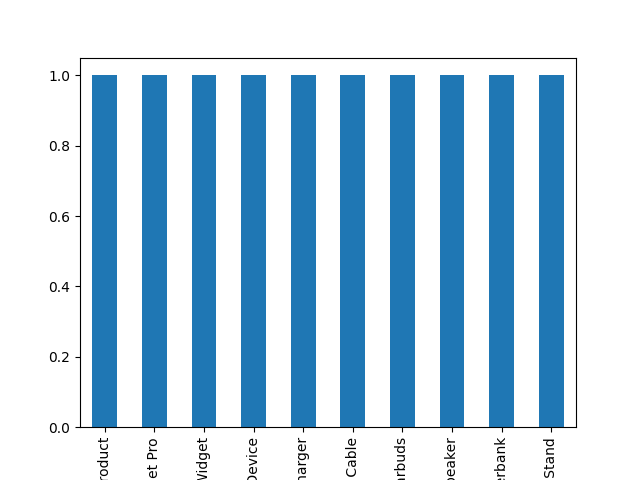
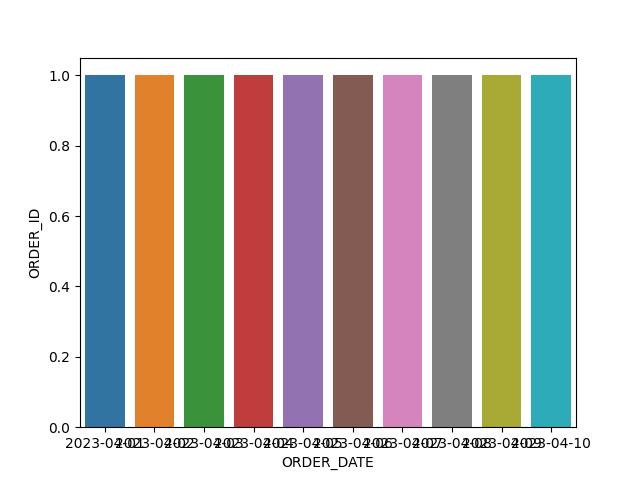
Fix api and prompt chains

diff --git a/src/app/chat/page.tsx b/src/app/chat/page.tsx
@@ -52,7 +52,7 @@ const Page = () => {
 
 
 
-  const sendToFastAPI = async (pythonCode: string) => {
+  const sendToFastAPI = async (pythonCode: string, initialSqlCode: string) => {
     setLoading(true);
     if (!pythonCode) {
       console.log("No python code found");
@@ -65,15 +65,12 @@ const Page = () => {
 
     const messages: ChatMessage[] = fullChat[chatIndex].messages;
     console.log(messages)
-    let sql = await extractSQL(messages);
-    // if (sql) setsqlCode(sql);
-    console.log(sql);
-
-    if (!sql) {
+    let sqlCode = initialSqlCode;
+    if (!sqlCode) {
       // Handle case where no SQL code is found in the latest messages
       console.log("No SQL code found");
-      let combined_prompt = "Give me the DQL Data Query Language sql code to create as a dataframe first so I could run this python code (Always only give SQL code)" + pythonCode;
-      const response = await fetch('/api/sql', {
+      let combined_prompt = "Write the DQL(Data query language) for the data needed here in SQL:\n" + pythonCode;
+      const response = await fetch('/api/py', {
         method: 'POST',
         body: JSON.stringify({ prompt: combined_prompt }),  // Assuming pythonCode is the prompt
         headers: {
@@ -88,7 +85,6 @@ const Page = () => {
       }
 
       const reader = response.body.getReader();
-      setLoading(false);
       const decoder = new TextDecoder('utf-8');
       let responseBody = '';
       while (true) {
@@ -101,22 +97,24 @@ const Page = () => {
 
       let sqlCodeResponse: ChatMessage[] = [{ id: uuidv4(), author: 'assistant', content: responseBody }]
       console.log("SQL Code Response", sqlCodeResponse)
-      sql = await extractSQL(sqlCodeResponse);
+      const sql = await extractSQL(sqlCodeResponse);
       console.log("SQL Code", sql)
       if (!sql) {
         console.log("Failed to get SQL code from /api/sql");
+        setLoading(false);
+
         return;
       }
-      setLoading(true);
+      sqlCode = sql
 
     }
     console.log("Python Code", pythonCode)
-    console.log("SQL Code", sql)
+    console.log("SQL Code", sqlCode)
     const response = await fetch('http://127.0.0.1:8000/execute', {
       method: 'POST',
       body: JSON.stringify({
         script: pythonCode,
-        sql: sql
+        sql: sqlCode
       }),
       headers: {
         'Content-Type': 'application/json'
@@ -171,13 +169,7 @@ const Page = () => {
       console.log("Question", question)
 
       let endpoint = "/api/sql";
-      // let fetchBody = { prompt: question, history: history };
-      let keywords = ["data analysis", "visualization", "datanalysis", "visualisation", "vizualisation", "charts", "graphs", "analysis", "plots", "matplot", "seaborn", "plotly", "visual"];
 
-      // Store the history array in chatHistories with the chat id as the key
-      if (keywords.some(keyword => question.toLowerCase().includes(keyword))) {
-        endpoint = "/api/py";
-      }
       const response = await fetch(endpoint, {
         method: 'POST',
         body: JSON.stringify({ prompt: question, history: history }),
@@ -193,6 +185,7 @@ const Page = () => {
       const reader = response.body.getReader();
       setLoading(false);
       let messageObject: ChatMessage = { id: uuidv4(), author: 'assistant', content: "" }; // Fixing author type issue
+
       // Add a new messageObject for the AI's response
       fullChat[ChatIndex].messages = [...fullChat[ChatIndex].messages, messageObject]; // Using spread operator instead of concat for array
       while (true) {
@@ -206,10 +199,18 @@ const Page = () => {
           while ((pythonCodeMatch = pythonCodeRegex.exec(messageObject.content)) !== null) {
             pythonCode = pythonCodeMatch[1].trim();
           }
+
+          const sqlRegex = /```(?:sql)?\s*([\s\S]*?SELECT[\s\S]*?FROM[\s\S]*?)```/g;
+          let sqlCodeMatch;
+          let initialSqlCode = '';
+          while ((sqlCodeMatch = sqlRegex.exec(messageObject.content)) !== null) {
+            initialSqlCode = sqlCodeMatch[1].trim();
+          }
+
           setPythonCode(pythonCode);
 
           // Call the new function here
-          sendToFastAPI(pythonCode);
+          sendToFastAPI(pythonCode, initialSqlCode);
           fullChat[ChatIndex].messages[fullChat[ChatIndex].messages.length - 1] = messageObject;
           setChatList([...fullChat]);
           break;
@@ -217,6 +218,7 @@ const Page = () => {
 
         const text = decoder.decode(value);
         messageObject.content += text;
+
         // Update the last message with updated message
         fullChat[ChatIndex].messages[fullChat[ChatIndex].messages.length - 1] = messageObject;
 
@@ -225,6 +227,7 @@ const Page = () => {
     }
     setTriggerFetch(false);
   }
+
 
   console.log("Python   ", pythonCode)
   console.log("Chat List", chatList)
@@ -288,9 +291,9 @@ const Page = () => {
 
   const handleDeleteChat = (id: string) => {
     let updatedChatList = deleteChat([...chatList], id);
+    router.push('/')
     setChatList(updatedChatList);
     setChatActiveId('');
-    router.push('/')
   }
 
   const handleEditChat = (id: string, newTitle: string) => {

diff --git a/utils/chain.ts b/utils/chain.ts
@@ -23,11 +23,11 @@ const prompt = PromptTemplate.fromTemplate(CONDENSE_QUESTION_PROMPT);
 
 const QA_PROMPT = ` You're an AI assistant who is specialized in snowflake database and can guide people based on their questions about sql and snowflake.
 
-Every response of yours should have an sql code.
-
 Your responses should always be formatted in Markdown.
 
 {chat_history}
+
+If the question is about analysis or visualization, write the DQL(Data query language) for the data needed, assume the data is stored as df (do not re-initialize), you need to use pandas, seaborn or matplotlib to create your plots, make one plot per question. NEVER use plt.show() in the script because it will break the test.
 
 Question: {question}
 context: {context}
@@ -38,10 +38,7 @@ Answer in Markdown:
 const q_prompt = PromptTemplate.fromTemplate(QA_PROMPT);
 
 const CODE_PROMPT = ` 
-As an AI assistant who specializes in data analysis with Python, your task is to manipulate and analyze the data. Assume the data is already stored in df.
-
-Use seaborn or matplotlib to create your plots, make one plot per question. NEVER use plt.show() in the script because it will break the test.
-and do not use pandas built-in functionality to plots. Only use seaborn or matplotlib.
+As an AI assistant you are only allowed to write DQL(Data query language) for the data needed to run the below python code.
 
 Your responses should always be formatted in Markdown.
 
@@ -50,7 +47,7 @@ Your responses should always be formatted in Markdown.
 Question: {question}
 Context: {context}
 
-Answer in Markdown:
+python answer :
 `;
 
 const index = pinecone.Index(PINECONE_INDEX_NAME);
@@ -120,7 +117,7 @@ export const pyChain = async (question: string, history: []) => {
   const writer = stream.writable.getWriter();
   const model = new ChatOpenAI({
     temperature: 0,
-    modelName: "gpt-3.5-turbo-16k",
+    modelName: "gpt-4-0613",
     openAIApiKey: process.env.OPENAI_API_KEY ?? "",
     streaming: true,
     callbacks: [

diff --git a/src/components/SchemaDialog.tsx b/src/components/SchemaDialog.tsx
@@ -30,7 +30,7 @@ export default function SchemaDialog() {
             className="m-auto absolute inset-0 bg-[#151313] md:max-w-3xl max-w-xs mx-auto text-xs rounded-lg shadow max-h-[60vh] flex flex-col overflow-y-scroll space-y-1 "
           >
             <DialogHeader className="py-4 text-[#999] mx-4">Database Schema</DialogHeader>
-            <DialogBody divider className=" overflow-auto py-4 my-2 text-[#999] scrollbar-thin text-sm mx-4 ">
+            <DialogBody divider className=" overflow-x-hidden py-4 my-2 text-[#999] scrollbar-thin text-sm mx-4 backdrop-blur-sm ">
               <DatabaseSchema tables={tables} />
             </DialogBody>
           </Dialog>

diff --git a/code-plugin/temp.py b/code-plugin/temp.py
@@ -5,6 +5,7 @@ import pandas as pd
 import matplotlib
 matplotlib.use('Agg')
 import matplotlib.pyplot as plt
+import seaborn as sns
 
 conn = snowflake.connector.connect(
     user=os.environ["USER_NAME"],
@@ -19,23 +20,27 @@ conn = snowflake.connector.connect(
 cur = conn.cursor()
 cur.execute('USE DATABASE ' + os.environ["DATABASE"])
 cur.execute('USE SCHEMA ' + os.environ["SCHEMA"])
-cur.execute("""
-SELECT t.TRANSACTION_ID, t.ORDER_ID, t.PRODUCT_ID, t.QUANTITY, t.PRICE,
-       c.CUSTOMER_ID, c.FIRST_NAME, c.LAST_NAME, c.EMAIL, c.PHONE, c.ADDRESS,
-       p.PRODUCT_NAME, p.CATEGORY, p.PRICE,
-       o.ORDER_DATE, o.TOTAL_AMOUNT
-FROM STREAM_HACKATHON.STREAMLIT.TRANSACTIONS t
-JOIN STREAM_HACKATHON.STREAMLIT.ORDER_DETAILS o ON t.ORDER_ID = o.ORDER_ID
-JOIN STREAM_HACKATHON.STREAMLIT.CUSTOMER_DETAILS c ON o.CUSTOMER_ID = c.CUSTOMER_ID
-JOIN STREAM_HACKATHON.STREAMLIT.PRODUCTS p ON t.PRODUCT_ID = p.PRODUCT_ID;
+cur.execute(f"""
+SELECT
+    ORDER_DETAILS.ORDER_DATE,
+    ORDER_DETAILS.ORDER_ID
+FROM
+    STREAM_HACKATHON.STREAMLIT.ORDER_DETAILS
+JOIN
+    STREAM_HACKATHON.STREAMLIT.TRANSACTIONS
+ON
+    ORDER_DETAILS.ORDER_ID = TRANSACTIONS.ORDER_ID;
 """)
 all_rows = cur.fetchall()
 field_names = [i[0] for i in cur.description]
 df = pd.DataFrame(all_rows)
 df.columns = field_names
 
-import matplotlib.pyplot as plt
+import seaborn as sns
 
-# Assuming the data is stored in a DataFrame called df
-df.groupby('CATEGORY')['PRICE'].sum().plot(kind='bar')
+# Group the orders by date and count the number of orders
+orders_by_date = df.groupby('ORDER_DATE')['ORDER_ID'].count().reset_index()
+
+# Create the bar plot
+sns.barplot(data=orders_by_date, x='ORDER_DATE', y='ORDER_ID')
 plt.savefig("output.png")
